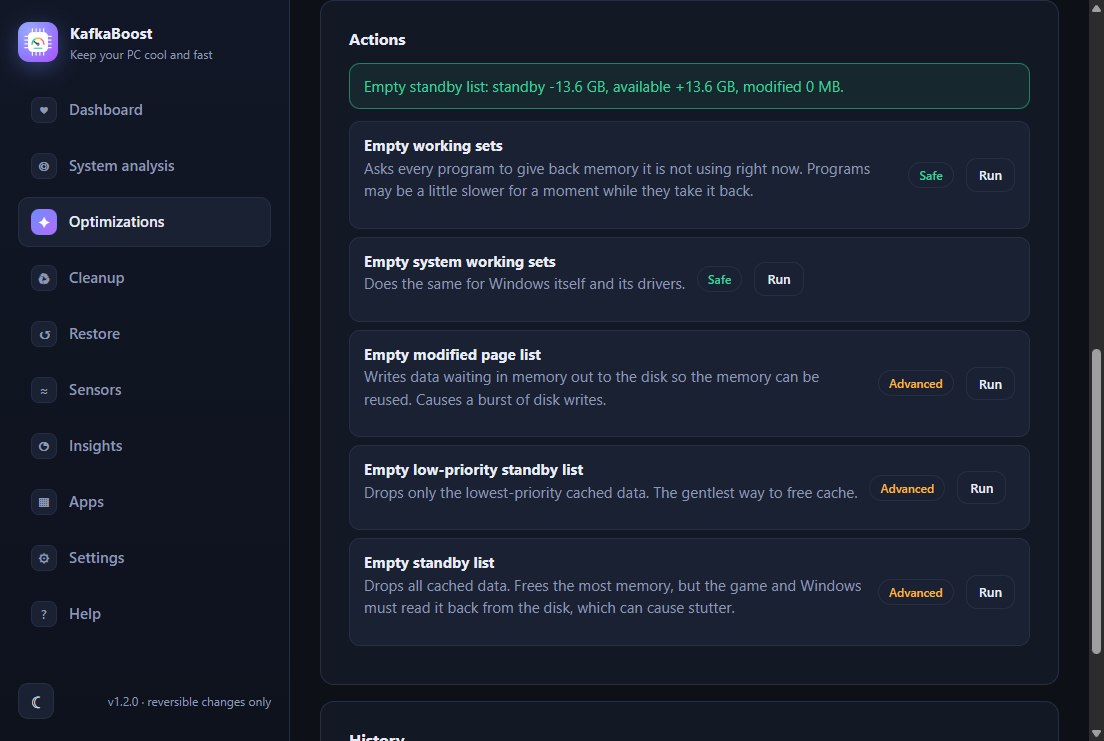
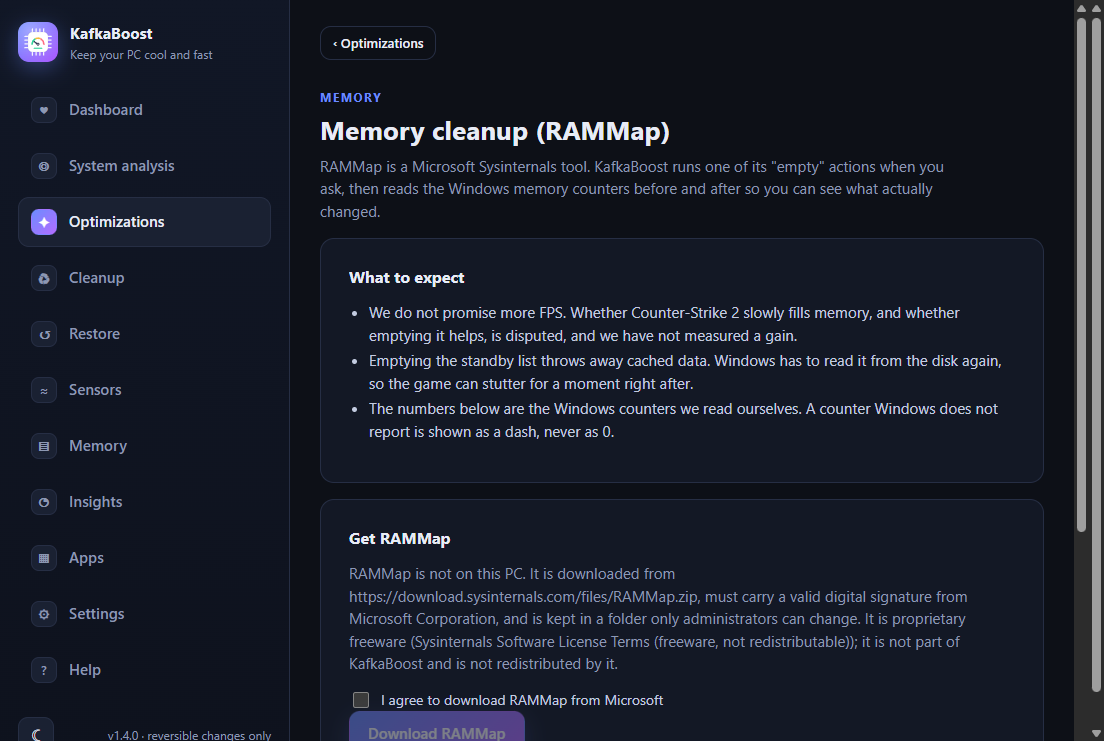
feat(app): opt-in automatic memory clean during play sessions (#26)
* test(app): auto clean settings, hook and history marker

* feat(app): auto memory clean hook in play sessions

* feat(app): auto clean card on the RAMMap page and docs

Opt-in card on the RAMMap page (consent, switch, threshold, cooldown, notice), Auto tag on history rows, docs and test counts.

* docs: refresh the RAMMap screenshots for the auto clean card

* docs: test counts after the auto clean slices (Pester 195, node 175)

---------

diff --git a/tools/uitest.js b/tools/uitest.js
@@ -117,7 +117,7 @@ async function runChecks({ win, js, sleep, settings, demo, startHwinfoWithApp, o
 
   await click('#mReset'); await sleep(500);
   const s = settings.get();
-  check('reset restores every default', s.startHwinfoWithApp === false && s.autoRecord === false && s.theme === 'system' && s.language === 'auto' && s.closeToTray === true && s.notifications === true && s.checkIntervalMin === 30 && s.installDir === '');
+  check('reset restores every default', s.startHwinfoWithApp === false && s.autoRecord === false && s.theme === 'system' && s.language === 'auto' && s.closeToTray === true && s.notifications === true && s.checkIntervalMin === 30 && s.installDir === '' && s.autoClean === false && s.autoCleanThresholdPct === 50 && s.autoCleanCooldownMin === 10);
   check('reset refreshes the form', (await js(win, "document.getElementById('sInterval').value")) === '30');
 
   // after Reset the language is 'auto' = the OS language (Portuguese on a pt-BR PC); the checks below read English text
@@ -362,6 +362,29 @@ async function runChecks({ win, js, sleep, settings, demo, startHwinfoWithApp, o
   check('running an advanced action asks first, and says it promises no gain', (await js(win, "document.getElementById('confirmDlg').open")) && (await q('#cfBody')).includes('does not promise a performance gain'), await q('#cfBody'));
   await click('#cfOk'); await sleep(1800);
   check('the result shows what the counters did, and the history records the run', (await q('#rammapResult')).includes('standby -13.6 GB') && await visible('rammapHistoryCard') && (await q('#rammapTotals')).includes('1 run'), await q('#rammapResult'));
+  // Auto clean card (opt-in; lives next to the consent box)
+  check('M2-14 the auto clean card shows once RAMMap is installed', await visible('rammapAutoCard'));
+  check('M2-15 the switch is disabled until the consent box is ticked', await dis('rammapAutoToggle') && !settings.get().autoClean);
+  check('the consent text names the stutter risk and promises no FPS', (await q('#rammapAutoCard')).includes('stutter') && (await q('#rammapAutoCard')).includes('no FPS'), await q('#rammapAutoCard'));
+  await click('#rammapAutoAgree'); await sleep(200);
+  check('ticking the consent box enables the switch, still off', !(await dis('rammapAutoToggle')) && !settings.get().autoClean);
+  await click('#rammapAutoToggle'); await sleep(400);
+  check('M2-16 switching on saves autoClean true', settings.get().autoClean === true);
+  await setVal('rammapAutoPct', '60'); await setVal('rammapAutoCooldown', '15'); await sleep(400);
+  check('threshold and cooldown are saved', settings.get().autoCleanThresholdPct === 60 && settings.get().autoCleanCooldownMin === 15, JSON.stringify(settings.get()));
+  await setVal('rammapAutoPct', '5'); await sleep(400);
+  check('an out-of-range threshold is refused and the field returns to the saved value', settings.get().autoCleanThresholdPct === 60 && (await js(win, "document.getElementById('rammapAutoPct').value")) === '60');
+  demo.state.rammap.history.unshift({ time: new Date().toISOString(), action: 'working-sets', trigger: 'auto', switch: '-Ew', before: {}, after: {}, delta: { availableBytes: 1, freeBytes: 1, standbyBytes: -1, modifiedBytes: 0 } });
+  await click('#rammapRefresh'); await sleep(1200);
+  const histRows = await js(win, "[...document.querySelectorAll('#rammapHistory tr')].slice(1).map(r=>r.textContent)");
+  check('M2-18 the auto run shows the Auto tag and the manual run does not', histRows.length === 2 && histRows[0].includes('Auto') && !histRows[1].includes('Auto'), JSON.stringify(histRows));
+  settings.set({ autoClean: false });
+  win.webContents.send('rammap:autonotice', { code: 'msg.rammap.needsAdmin' }); await sleep(800);
+  check('M2-19 a needs-admin notice shows once and the switch is off', (await q('#rammapAutoNotice')).includes('administrator') && (await js(win, "document.querySelectorAll('#rammapAutoNotice').length")) === 1 && !(await js(win, "document.getElementById('rammapAutoToggle').checked")), await q('#rammapAutoNotice'));
+  await click('#rammapAutoToggle'); await sleep(400);
+  check('switched on again', settings.get().autoClean === true);
+  await click('#rammapAutoAgree'); await sleep(400);
+  check('M2-17 unticking the consent box sets autoClean false and disables the switch', settings.get().autoClean === false && await dis('rammapAutoToggle'));
   await click('#backFromRammap'); await sleep(400);
   check('Back returns to Optimizations from RAMMap', await visible('optimizations') && !(await visible('rammap')));
 

diff --git a/app/renderer/js/rammap.js b/app/renderer/js/rammap.js
@@ -20,6 +20,21 @@
     });
   }
 
+  const AUTO_NOTICE_KEYS = {
+    needsAdmin: 'rammap.auto.notice.needsAdmin', notInstalled: 'rammap.auto.notice.notInstalled', badSignature: 'rammap.auto.notice.badSignature'
+  };
+
+  function renderAuto(m) {
+    const card = $('rammapAutoCard');
+    card.hidden = !m.autoEnabled;
+    const s = KB.settings || {};
+    const agreed = $('rammapAutoAgree').checked;
+    $('rammapAutoToggle').disabled = !agreed;
+    $('rammapAutoToggle').checked = agreed && !!s.autoClean;
+    $('rammapAutoPct').value = s.autoCleanThresholdPct;
+    $('rammapAutoCooldown').value = s.autoCleanCooldownMin;
+  }
+
   function render() {
     const m = L.screenModel(data, busy);
     $('rammapGet').hidden = !m.showDownload;
@@ -32,6 +47,7 @@
     if (data) {
       $('rammapGetText').textContent = t('rammap.get.text', { source: data.source || '', signer: data.signer || '', license: data.license || '' });
     }
+    renderAuto(m);
     kvTable($('rammapMem'), L.memoryRows(data && data.memory).map((r) => [t(`rammap.mem.${r.key}`), r.value]));
 
     const host = $('rammapActions'); host.textContent = '';
@@ -57,7 +73,7 @@
     history.slice(0, 20).forEach((rec) => {
       const r = L.historyRow(rec);
       let when = r.time; try { when = new Date(r.time).toLocaleString(); } catch { /* keep raw */ }
-      rows.push([when, `${t(`rammap.action.${r.action}.title`)} · ${r.standby} · ${r.available} · ${r.modified}`]);
+      rows.push([when, `${t(`rammap.action.${r.action}.title`)} · ${r.standby} · ${r.available} · ${r.modified}${r.auto ? ' · ' + t('rammap.history.auto') : ''}`]);
     });
     kvTable($('rammapHistory'), rows);
   }
@@ -71,6 +87,7 @@
       const h = await window.kb.runStep('rammap-history', {});
       if (h.ok && h.data && Array.isArray(h.data.history)) history = h.data.history;
     }
+    $('rammapAutoAgree').checked = !!(KB.settings && KB.settings.autoClean);
     render();
   }
 
@@ -103,6 +120,17 @@
     await load();
   }
 
+  function saveAuto(patch) {
+    return KB.saveSetting(patch).then(render);
+  }
+
+  function onAutoNotice(payload) {
+    const name = String((payload && payload.code) || '').split('.').pop();
+    if (!Object.hasOwn(AUTO_NOTICE_KEYS, name)) return;
+    $('rammapAutoToggle').checked = false;
+    KB.showResult($('rammapAutoNotice'), 'fail', t(AUTO_NOTICE_KEYS[name]));
+  }
+
   KB.registerView('rammap', { onShow() { load(); } });
   document.addEventListener('DOMContentLoaded', () => {
     $('openRammap').addEventListener('click', () => KB.showView('rammap'));
@@ -110,6 +138,11 @@
     $('rammapAgree').addEventListener('change', render);
     $('rammapDownload').addEventListener('click', download);
     $('rammapRefresh').addEventListener('click', load);
+    $('rammapAutoAgree').addEventListener('change', () => { if (!$('rammapAutoAgree').checked) saveAuto({ autoClean: false }); else render(); });
+    $('rammapAutoToggle').addEventListener('change', () => { KB.showResult($('rammapAutoNotice'), '', ''); saveAuto({ autoClean: $('rammapAutoToggle').checked }); });
+    $('rammapAutoPct').addEventListener('change', () => saveAuto({ autoCleanThresholdPct: Number($('rammapAutoPct').value) }));
+    $('rammapAutoCooldown').addEventListener('change', () => saveAuto({ autoCleanCooldownMin: Number($('rammapAutoCooldown').value) }));
+    window.kb.onAutoNotice(onAutoNotice);
   });
   KB.onSettingsChanged(() => { if (data && !$('rammap').hidden) render(); });
 })();

diff --git a/app/test/autoclean.test.js b/app/test/autoclean.test.js
@@ -1,0 +1,73 @@
+'use strict';
+const test = require('node:test');
+const assert = require('node:assert/strict');
+const { createAutoClean } = require('../src/autoclean');
+
+function setup({ enabled = true, code = 'msg.rammap.done', runStep } = {}) {
+  const calls = []; const notices = []; const patches = [];
+  let clock = 0; const settings = { autoClean: enabled, autoCleanThresholdPct: 55, autoCleanCooldownMin: 12 };
+  const auto = createAutoClean({
+    runStep: runStep || (async (step, opts) => { calls.push({ step, opts }); return { ok: true, code }; }),
+    getSettings: () => ({ ...settings }),
+    setSettings: (p) => { patches.push(p); Object.assign(settings, p); },
+    notify: (c) => notices.push(c),
+    now: () => clock
+  });
+  return { auto, calls, notices, patches, settings, at: (ms) => { clock = ms; } };
+}
+const running = { status: 'running' };
+
+test('M2-05 a running session with the setting on runs rammap-auto with numeric pct and cooldown', async () => {
+  const t = setup();
+  await t.auto.onSession(running);
+  assert.equal(t.calls.length, 1);
+  assert.equal(t.calls[0].step, 'rammap-auto');
+  assert.deepEqual(t.calls[0].opts, { rammapAutoPct: 55, rammapAutoCooldownMin: 12 });
+});
+
+test('M2-06 stopped, idle or setting off: no call', async () => {
+  const t = setup();
+  for (const status of ['idle', 'done', 'failed']) await t.auto.onSession({ status });
+  const off = setup({ enabled: false });
+  await off.auto.onSession(running);
+  assert.equal(t.calls.length, 0); assert.equal(off.calls.length, 0);
+});
+
+test('M2-07 two samples 30 s apart give one call, a sample at 61 s gives a second', async () => {
+  const t = setup();
+  t.at(1000); await t.auto.onSession(running);
+  t.at(31000); await t.auto.onSession(running);
+  assert.equal(t.calls.length, 1);
+  t.at(62000); await t.auto.onSession(running);
+  assert.equal(t.calls.length, 2);
+});
+
+test('M2-08 a second sample while the first call is pending does not start another', async () => {
+  let release; let n = 0;
+  const t = setup({ runStep: () => { n++; return new Promise((res) => { release = () => res({ ok: true, code: 'msg.rammap.skipped' }); }); } });
+  const first = t.auto.onSession(running);
+  t.at(120000); await t.auto.onSession(running);
+  assert.equal(n, 1);
+  release(); await first;
+});
+
+for (const [id, codes] of [['M2-09', ['msg.rammap.needsAdmin']], ['M2-10', ['msg.rammap.notInstalled', 'msg.rammap.badSignature']]]) {
+  test(`${id} ${codes.join(' and ')} turn the setting off and notify once`, async () => {
+    for (const code of codes) {
+      const t = setup({ code });
+      await t.auto.onSession(running);
+      t.at(120000); await t.auto.onSession(running);
+      assert.deepEqual(t.patches, [{ autoClean: false }]);
+      assert.deepEqual(t.notices, [code]);
+      assert.equal(t.calls.length, 1);
+    }
+  });
+}
+
+test('M2-11 skipped, alreadyRunning and runFailed keep the setting on and do not notify', async () => {
+  for (const code of ['msg.rammap.skipped', 'msg.rammap.alreadyRunning', 'msg.rammap.runFailed']) {
+    const t = setup({ code });
+    await t.auto.onSession(running);
+    assert.deepEqual(t.patches, []); assert.deepEqual(t.notices, []); assert.equal(t.settings.autoClean, true);
+  }
+});

diff --git a/docs/pt-br/index.html b/docs/pt-br/index.html
@@ -31,8 +31,8 @@
 </div><figure class="shot"><img src="../assets/health-ok.png" alt="Painel do KafkaBoost com um check verde e a mensagem Seu PC está otimizado, com cartões de temperatura, clock e potência da CPU." width="1104" height="741" loading="lazy"><figcaption>O Painel após uma verificação (dados de demonstração).</figcaption></figure></div></div></section>
 <section class="alt" id="facts" aria-labelledby="facts-h"><div class="wrap"><h2 id="facts-h" class="center">Números que você confere no repositório</h2><div class="stats">
 <div class="stat"><b data-fact="tweaks">31</b><span>ajustes do Windows no catálogo, cada um com reversão documentada</span></div>
-<div class="stat"><b data-fact="pester">181</b><span>testes Pester da biblioteca PowerShell</span></div>
-<div class="stat"><b data-fact="node">163</b><span>testes Node de configurações, idiomas e atualizações</span></div>
+<div class="stat"><b data-fact="pester">195</b><span>testes Pester da biblioteca PowerShell</span></div>
+<div class="stat"><b data-fact="node">175</b><span>testes Node de configurações, idiomas e atualizações</span></div>
 <div class="stat"><b>0</b><span>contas, chaves de licença ou chamadas de telemetria</span></div>
 </div></div></section>
 <section id="how" aria-labelledby="how-h"><div class="wrap"><div class="section-head"><div class="eyebrow">Como funciona</div><h2 id="how-h">Quatro passos, nesta ordem</h2></div><div class="cards four"><div class="card"><span class="num">1</span><h3>Analisar</h3><p class="muted">Uma leitura do seu PC, sem alterar nada: hardware, versão do Windows, plano de energia e o que já está ajustado.</p></div><div class="card"><span class="num">2</span><h3>Ponto de restauração</h3><p class="muted">Antes do primeiro ajuste, o KafkaBoost pede ao Windows um ponto de restauração. O Windows permite um por 24 horas, e o app avisa quando ele foi pulado.</p></div><div class="card"><span class="num">3</span><h3>Aplicar</h3><p class="muted">Ative os ajustes um a um, ou use Aplicar recomendados (somente os seguros). Cada cartão explica o que faz e o valor anterior é salvo.</p></div><div class="card"><span class="num">4</span><h3>Verificar</h3><p class="muted">O Painel confere as configurações de novo, por exemplo após uma atualização do Windows, e o botão Corrigir reaplica só o que mudou.</p></div></div></div></section>

diff --git a/docs/index.html b/docs/index.html
@@ -31,8 +31,8 @@
 </div><figure class="shot"><img src="assets/health-ok.png" alt="KafkaBoost Dashboard showing a green check and the message Your PC is optimized, with CPU temperature, clock and power cards." width="1104" height="741" loading="lazy"><figcaption>The Dashboard after a health check (demo data).</figcaption></figure></div></div></section>
 <section class="alt" id="facts" aria-labelledby="facts-h"><div class="wrap"><h2 id="facts-h" class="center">Numbers you can check in the repository</h2><div class="stats">
 <div class="stat"><b data-fact="tweaks">31</b><span>Windows tweaks in the catalog, each with a documented revert</span></div>
-<div class="stat"><b data-fact="pester">181</b><span>Pester tests for the PowerShell library</span></div>
-<div class="stat"><b data-fact="node">163</b><span>Node tests for settings, languages, updates and apps</span></div>
+<div class="stat"><b data-fact="pester">195</b><span>Pester tests for the PowerShell library</span></div>
+<div class="stat"><b data-fact="node">175</b><span>Node tests for settings, languages, updates and apps</span></div>
 <div class="stat"><b>0</b><span>accounts, licence keys or telemetry calls</span></div>
 </div></div></section>
 <section id="how" aria-labelledby="how-h"><div class="wrap"><div class="section-head"><div class="eyebrow">How it works</div><h2 id="how-h">Four steps, in this order</h2></div><div class="cards four"><div class="card"><span class="num">1</span><h3>Analyze</h3><p class="muted">A read-only look at your PC: hardware, Windows build, power plan and what is already tuned. Nothing is changed.</p></div><div class="card"><span class="num">2</span><h3>Restore point</h3><p class="muted">Before the first tweak, KafkaBoost asks Windows for a System Restore point. Windows allows one per 24 hours, and the app tells you when it was skipped.</p></div><div class="card"><span class="num">3</span><h3>Apply</h3><p class="muted">Switch tweaks one by one, or use Apply recommended (safe tweaks only). Each card says what it does and the previous value is saved.</p></div><div class="card"><span class="num">4</span><h3>Verify</h3><p class="muted">The Dashboard re-checks the settings, for example after a Windows update, and a Fix it button re-applies only what drifted.</p></div></div></div></section>

diff --git a/app/src/main.js b/app/src/main.js
@@ -116,6 +116,8 @@ function runStep(step, opts = {}, onLog = () => {}) {
     if (opts.hwinfoVersion && /^[0-9]+\.[0-9]+$/.test(String(opts.hwinfoVersion))) args.push('-HwinfoVersion', String(opts.hwinfoVersion));
     if (opts.updateIni === true) args.push('-UpdateIni');
     if (typeof opts.rammapAction === 'string' && /^[a-z0-9-]{1,40}$/.test(opts.rammapAction)) args.push('-RammapAction', opts.rammapAction);   // an id only; the switch comes from config/rammap.json
+    if (/^[0-9]{1,2}$/.test(String(opts.rammapAutoPct))) args.push('-RammapAutoPct', String(opts.rammapAutoPct));
+    if (/^[0-9]{1,2}$/.test(String(opts.rammapAutoCooldownMin))) args.push('-RammapAutoCooldownMin', String(opts.rammapAutoCooldownMin));
     if (opts.noSafetyPoint) args.push('-NoSafetyPoint');
     // Counter-Strike 2 preset: every value is checked again here and once more in PowerShell (config/cs2.json lists the option ids)
     if (typeof opts.cs2Exe === 'string' && opts.cs2Exe && SETTING_RULES.cs2Exe(opts.cs2Exe)) args.push('-Cs2Exe', opts.cs2Exe);
@@ -377,11 +379,20 @@ ipcMain.handle('step:run', async (event, step, opts = {}) => {
 const { createSession } = require('./session');
 const { createLoadWatch } = require('./loadwatch');
 const loadWatch = createLoadWatch();
+const { createAutoClean } = require('./autoclean');
+const autoClean = createAutoClean({
+  runStep, getSettings: settings.get, setSettings: settings.set, now: Date.now,
+  notify: (code) => {
+    broadcast('rammap:autonotice', { code });
+    notify('rammap.auto.title', `rammap.auto.notice.${code.replace('msg.rammap.', '')}`, showWindow);
+  }
+});
 const playSession = createSession({
   runStep, fs, stopFile: path.join(app.getPath('userData'), 'session.stop'), storeFile: path.join(app.getPath('userData'), 'last-session.json'),
   historyFile: path.join(app.getPath('userData'), 'session-history.json'),
   onChange: (st) => {
     broadcast('session:update', st);
+    autoClean.onSession(st);
     // a recording that we started by ourselves (autoRecord) ends when the load ends
     if (st.status === 'running' && st.last && loadWatch.decide(st.last.powerW, 'running') === 'stop') playSession.stop();
   }

diff --git a/app/src/demo.js b/app/src/demo.js
@@ -249,13 +249,24 @@ function rammapStep(step, opts) {
     return { logs: ['downloading RAMMap (demo: nothing is downloaded)', 'signature OK (Microsoft Corporation)'], res: ok('msg.rammap.installed', { version: '1.62' }, { version: '1.62' }).res };
   }
   if (step === 'rammap-history') return ok('msg.rammap.history', { count: r.history.length }, { history: r.history.slice() });
+  if (step === 'rammap-auto') {
+    const fail = (code) => ({ logs: [], res: { ok: false, code, args: {}, message: 'demo', data: null } });
+    if (!r.installed) return fail('msg.rammap.notInstalled');
+    if (r.mem.standbyBytes / r.mem.totalBytes * 100 < opts.rammapAutoPct) return { logs: [], res: ok('msg.rammap.skipped', {}, null).res };
+    return runRammapAction(RAMMAP_ACTIONS[0], 'auto');
+  }
   const act = RAMMAP_ACTIONS.find((a) => a.id === opts.rammapAction);
   if (!act) return { logs: [], res: { ok: false, code: 'msg.rammap.unknownAction', args: {}, message: 'unknown', data: null } };
+  return runRammapAction(act, 'manual');
+}
+function runRammapAction(act, trigger) {
+  const r = state.rammap;
+  const ok = (code, args, data) => ({ logs: [], res: { ok: true, code, args: args || {}, message: 'demo', data } });
   const before = { ...r.mem };
   const moved = act.id === 'standby' ? r.mem.standbyBytes : act.id === 'standby-low' ? r.mem.standbyBytes * 0.25 : act.id === 'modified-pages' ? r.mem.modifiedBytes : r.mem.standbyBytes * 0.05;
   if (act.id === 'modified-pages') r.mem.modifiedBytes -= moved; else r.mem.standbyBytes -= moved;
   r.mem.availableBytes += moved; r.mem.freeBytes += moved;
-  const rec = { time: new Date().toISOString(), action: act.id, switch: act.switch, before, after: { ...r.mem },
+  const rec = { time: new Date().toISOString(), action: act.id, trigger, switch: act.switch, before, after: { ...r.mem },
     delta: { availableBytes: moved, freeBytes: moved, standbyBytes: act.id === 'modified-pages' ? 0 : -moved, modifiedBytes: act.id === 'modified-pages' ? -moved : 0 } };
   r.history.unshift(rec);
   return ok('msg.rammap.done', {}, rec);

diff --git a/app/test/settings.test.js b/app/test/settings.test.js
@@ -80,3 +80,32 @@ test('autoRecord: off by default, boolean only, survives a reload, sanitize drop
   assert.equal(createStore(f).get().autoRecord, true);
   assert.equal(sanitize({ autoRecord: 'true' }).autoRecord, false);
 });
+
+test('M2-01 autoClean defaults: off, threshold 50, cooldown 10', () => {
+  const s = createStore(tmpFile()).get();
+  assert.equal(s.autoClean, false); assert.equal(s.autoCleanThresholdPct, 50); assert.equal(s.autoCleanCooldownMin, 10);
+});
+
+test('M2-02 autoClean is boolean only', () => {
+  const s = createStore(tmpFile());
+  for (const bad of ['yes', 1, null, undefined, {}]) assert.deepEqual(s.set({ autoClean: bad }).rejected, ['autoClean']);
+  assert.equal(s.get().autoClean, false);
+});
+
+test('M2-03 threshold 20..90 and cooldown 5..60 are rejected outside the bounds, not clamped', () => {
+  const s = createStore(tmpFile());
+  for (const bad of [19, 91, 50.5, '50']) assert.deepEqual(s.set({ autoCleanThresholdPct: bad }).rejected, ['autoCleanThresholdPct']);
+  for (const bad of [4, 61, 10.5, '10']) assert.deepEqual(s.set({ autoCleanCooldownMin: bad }).rejected, ['autoCleanCooldownMin']);
+  assert.equal(s.get().autoCleanThresholdPct, 50); assert.equal(s.get().autoCleanCooldownMin, 10);
+  for (const good of [20, 90]) assert.deepEqual(s.set({ autoCleanThresholdPct: good }).rejected, []);
+  for (const good of [5, 60]) assert.deepEqual(s.set({ autoCleanCooldownMin: good }).rejected, []);
+});
+
+test('M2-04 valid auto clean values survive a reload and sanitize drops junk', () => {
+  const f = tmpFile();
+  createStore(f).set({ autoClean: true, autoCleanThresholdPct: 70, autoCleanCooldownMin: 30 });
+  const b = createStore(f).get();
+  assert.equal(b.autoClean, true); assert.equal(b.autoCleanThresholdPct, 70); assert.equal(b.autoCleanCooldownMin, 30);
+  const clean = sanitize({ autoClean: 'true', autoCleanThresholdPct: 5, autoCleanCooldownMin: 99 });
+  assert.equal(clean.autoClean, false); assert.equal(clean.autoCleanThresholdPct, 50); assert.equal(clean.autoCleanCooldownMin, 10);
+});

diff --git a/app/src/settings.js b/app/src/settings.js
@@ -17,7 +17,10 @@ const DEFAULTS = Object.freeze({
   checkForUpdates: true,      // look at GitHub Releases every few hours (a lookup only; nothing downloads without a click)
   lastSeenVersion: '',        // version whose "what's new" was already shown
   lastCleanup: null,          // ISO time of the last cleanup run
-  cs2Exe: ''                  // a cs2.exe the user picked when Steam did not reveal it ('' = detect through Steam)
+  cs2Exe: '',                 // a cs2.exe the user picked when Steam did not reveal it ('' = detect through Steam)
+  autoClean: false,           // during a recorded play session, run RAMMap "working-sets" when standby memory is high (opt-in, needs the RAMMap consent)
+  autoCleanThresholdPct: 50,  // standby share of total memory that triggers an auto clean
+  autoCleanCooldownMin: 10    // minimum minutes between two auto cleans
 });
 
 const isBool = (v) => typeof v === 'boolean';
@@ -33,6 +36,9 @@ const RULES = Object.freeze({
   installDir: (v) => typeof v === 'string' && v.length <= 260,
   checkForUpdates: isBool,
   lastSeenVersion: (v) => typeof v === 'string' && v.length <= 40,
+  autoClean: isBool,
+  autoCleanThresholdPct: (v) => Number.isInteger(v) && v >= 20 && v <= 90,
+  autoCleanCooldownMin: (v) => Number.isInteger(v) && v >= 5 && v <= 60,
   lastCleanup: (v) => v === null || (typeof v === 'string' && v.length <= 40),
   // a drive path ending in cs2.exe, no ".." / "." parts, no wildcard characters (PowerShell validates it again)
   cs2Exe: (v) => v === '' || (typeof v === 'string' && v.length <= 260 && /^[A-Za-z]:[\\/](?:[^\[\]*?<>|"]*[\\/])?cs2\.exe$/i.test(v) && !/(^|[\\/])\.\.?([\\/]|$)/.test(v))

diff --git a/app/renderer/index.html b/app/renderer/index.html
@@ -317,6 +317,24 @@
           <div id="rammapResult" class="result" hidden></div>
           <div id="rammapActions" class="clean-list"></div>
         </div>
+        <div id="rammapAutoCard" class="card" hidden>
+          <h2 class="h2" data-i18n="rammap.auto.title"></h2>
+          <label class="check"><input type="checkbox" id="rammapAutoAgree"><span data-i18n="rammap.auto.consent"></span></label>
+          <div class="row">
+            <div class="row-text"><label class="row-title" for="rammapAutoToggle" data-i18n="rammap.auto.toggle"></label></div>
+            <label class="switch"><input type="checkbox" id="rammapAutoToggle" disabled><span class="slider"></span></label>
+          </div>
+          <div class="row">
+            <div class="row-text"><label class="row-title" for="rammapAutoPct" data-i18n="rammap.auto.pct"></label></div>
+            <input id="rammapAutoPct" class="field" type="number" min="20" max="90" step="1">
+          </div>
+          <div class="row">
+            <div class="row-text"><label class="row-title" for="rammapAutoCooldown" data-i18n="rammap.auto.cooldown"></label></div>
+            <input id="rammapAutoCooldown" class="field" type="number" min="5" max="60" step="1">
+          </div>
+          <p class="muted" data-i18n="rammap.auto.hint"></p>
+          <div id="rammapAutoNotice" class="result" hidden></div>
+        </div>
         <div id="rammapHistoryCard" class="card" hidden>
           <h2 class="h2" data-i18n="rammap.history.title"></h2>
           <p id="rammapTotals" class="muted"></p>

diff --git a/app/src/autoclean.js b/app/src/autoclean.js
@@ -1,0 +1,25 @@
+'use strict';
+// Auto memory clean: while a play session records, asks the rammap-auto step (at most once a minute) to run
+// RAMMap "working-sets" if standby memory is high. Pure: the caller injects everything, so it is unit tested.
+const MIN_GAP_MS = 60 * 1000;
+const FATAL_CODES = new Set(['msg.rammap.needsAdmin', 'msg.rammap.notInstalled', 'msg.rammap.badSignature']);
+
+function createAutoClean({ runStep, getSettings, setSettings, notify, now }) {
+  let lastRunAt = null;
+  let inFlight = false;
+
+  async function onSession(st) {
+    const settings = getSettings();
+    if (!st || st.status !== 'running' || !settings.autoClean || inFlight) return;
+    if (lastRunAt !== null && now() - lastRunAt < MIN_GAP_MS) return;
+    inFlight = true; lastRunAt = now();
+    try {
+      const res = await runStep('rammap-auto', { rammapAutoPct: settings.autoCleanThresholdPct, rammapAutoCooldownMin: settings.autoCleanCooldownMin });
+      if (res && FATAL_CODES.has(res.code)) { setSettings({ autoClean: false }); notify(res.code); }
+    } finally { inFlight = false; }
+  }
+
+  return { onSession };
+}
+
+module.exports = { createAutoClean };

diff --git a/app/test/rammap.test.js b/app/test/rammap.test.js
@@ -48,3 +48,9 @@ test('historyRow and totals only count what was measured', () => {
   assert.equal(t.runs, 3); assert.equal(t.measured, 2); assert.equal(t.releasedStandbyBytes, 3 * 1024 ** 3);
   assert.deepEqual(R.totals(null), { runs: 0, measured: 0, releasedStandbyBytes: 0 });
 });
+
+test('M2-12 historyRow marks only auto records', () => {
+  assert.equal(R.historyRow({ action: 'working-sets', trigger: 'auto', delta: {} }).auto, true);
+  assert.equal(R.historyRow({ action: 'working-sets', trigger: 'manual', delta: {} }).auto, false);
+  assert.equal(R.historyRow({ action: 'working-sets', delta: {} }).auto, false);
+});
